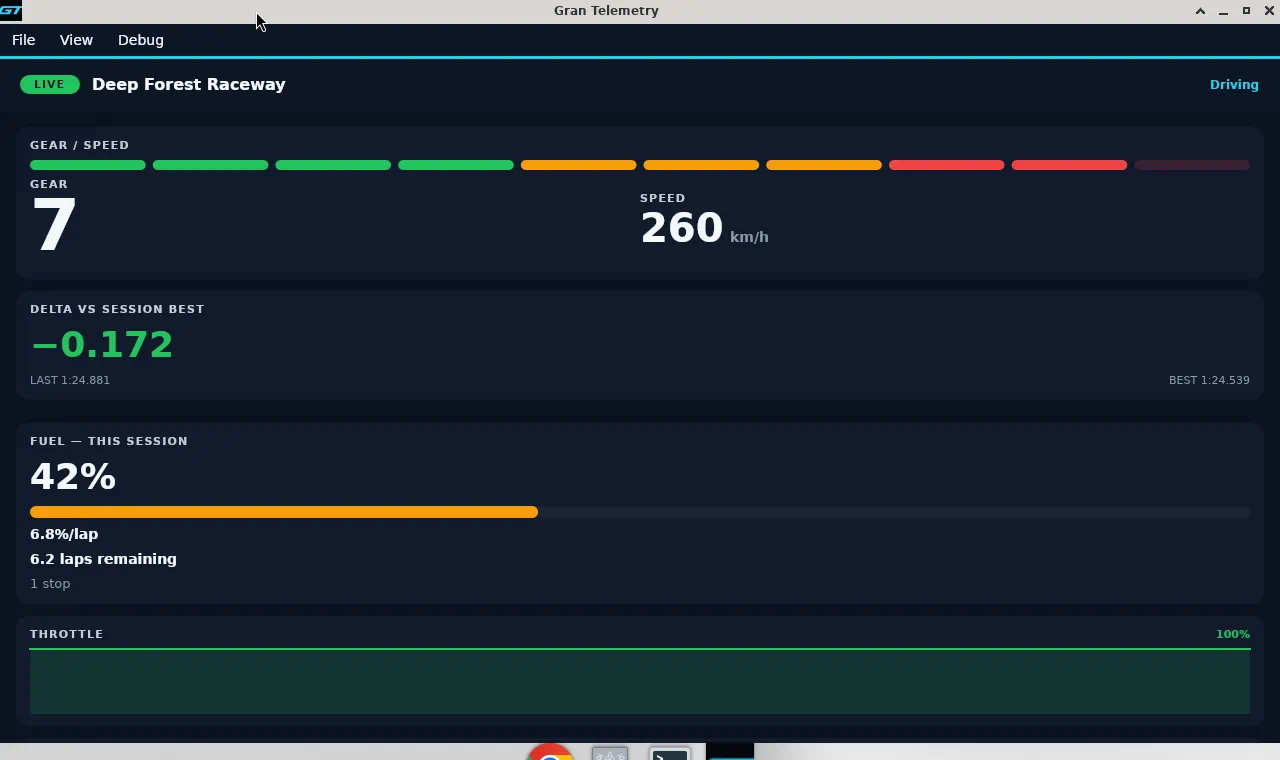
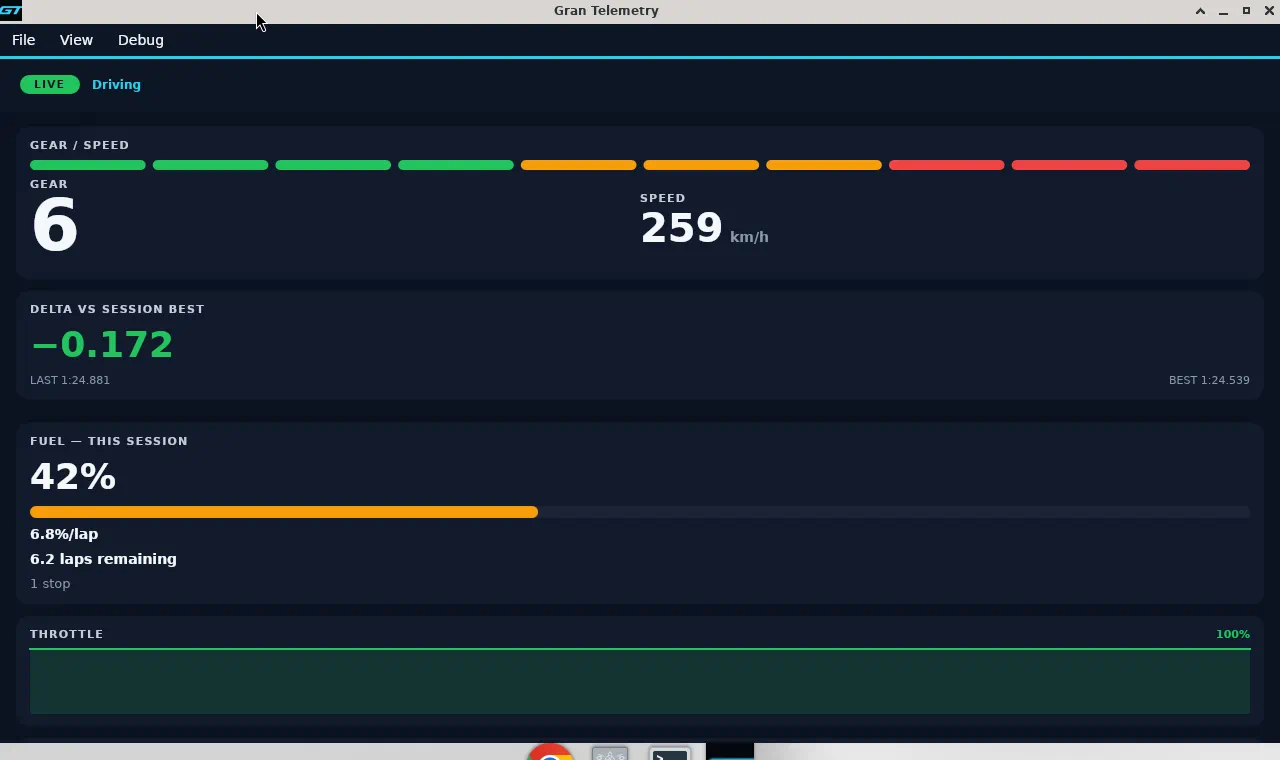
Remove track name from HUD headers.
GT7 packets do not include a track name, so the header is LIVE plus the view label only. Refresh README screenshots.

diff --git a/src/GranTurismoTelemetry/ViewModels/MainViewModel.cs b/src/GranTurismoTelemetry/ViewModels/MainViewModel.cs
@@ -371,8 +371,6 @@ public partial class MainViewModel : ViewModelBase
     public string BestLapValue => Formatters.LapTime(SessionBestMs);
     public int SessionBestMs => Telemetry.Session.SessionBestMs > 0 ? Telemetry.Session.SessionBestMs : Packet.BestLapMs;
     public string LapsInMemoryText => $"{Telemetry.Session.LapsInMemory}";
-    public string TrackName => string.IsNullOrWhiteSpace(Packet.TrackName) ? "" : Packet.TrackName;
-    public string PitWallTitle => "Pit Wall - " + Packet.TrackName;
     public string CarClassChip => Packet.CarClass;
     public string LapChip => $"Lap {Math.Max(Packet.CurrentLap, 1)}";
     public string PresetChip => HudModeLabel;

diff --git a/src/GranTurismoTelemetry/Gt7/TelemetrySimulator.cs b/src/GranTurismoTelemetry/Gt7/TelemetrySimulator.cs
@@ -134,7 +134,6 @@ public sealed class TelemetrySimulator
                 CalcMaxSpeedKph = 320,
                 Flags = SimulatorFlags.CarOnTrack | SimulatorFlags.InGear | SimulatorFlags.HasTurbo | SimulatorFlags.TcsActive,
                 GearRatios = [3.5f, 2.4f, 1.8f, 1.4f, 1.1f, 0.9f, 0.7f, 0f],
-                TrackName = "Deep Forest Raceway",
                 CarClass = "Gr.3",
                 LapProgress = t,
                 LiveDeltaSeconds = liveDelta,
